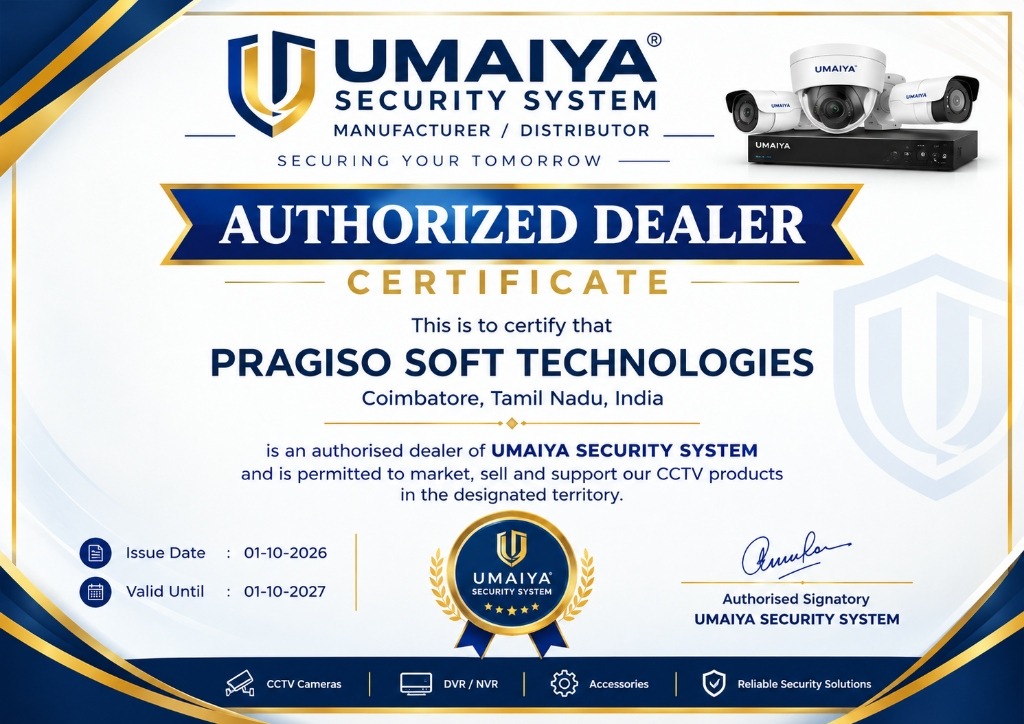
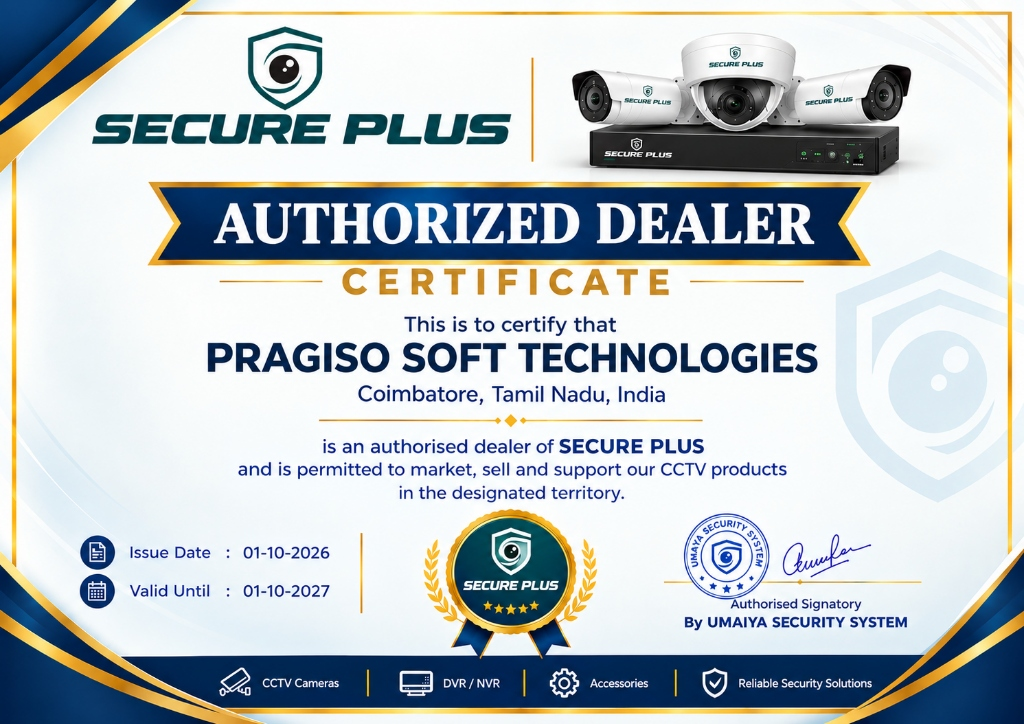
feat(cctv): update official SECURE PLUS authorized dealer certificate with Umaiya signatory

diff --git a/src/components/cctv/CctvAuthorisedDealer.tsx b/src/components/cctv/CctvAuthorisedDealer.tsx
@@ -26,11 +26,11 @@ export function CctvAuthorisedDealer() {
           </h2>
 
           <p className="mt-4 text-base sm:text-lg leading-relaxed text-foreground font-medium">
-            Pragiso Soft Technologies is an authorised dealer of Secure Plus & Umaiya Security System CCTV cameras.
+            Pragiso Soft Technologies is an authorised dealer of Secure Plus CCTV cameras.
           </p>
 
           <p className="mt-2 text-sm text-muted-foreground">
-            As an officially appointed dealer and distributor in Coimbatore, we supply authentic CCTV surveillance hardware directly backed by manufacturer warranties — serving residential homes, commercial enterprises, and local retail sub-dealers across Tamil Nadu.
+            As an officially appointed dealer and distributor in Coimbatore, we supply authentic Secure Plus CCTV surveillance hardware directly backed by manufacturer warranties — serving residential homes, commercial enterprises, and local retail sub-dealers across Tamil Nadu.
           </p>
         </div>
 
@@ -46,7 +46,7 @@ export function CctvAuthorisedDealer() {
                 >
                   <img
                     src={cctvConfig.dealer.dealerAuthLetterUrl}
-                    alt="Official Authorized Dealer Certificate — Pragiso Soft Technologies, Umaiya Security System"
+                    alt="Official Authorized Dealer Certificate — Pragiso Soft Technologies, Secure Plus"
                     width={450}
                     height={320}
                     loading="eager"
@@ -61,14 +61,14 @@ export function CctvAuthorisedDealer() {
 
                 <div className="mt-3 flex items-center gap-1.5 text-[11px] text-muted-foreground">
                   <ShieldCheck className="size-3.5 text-cyan" />
-                  <span>Verified Official Manufacturer Certificate</span>
+                  <span>Verified Secure Plus Dealer Certificate</span>
                 </div>
               </div>
 
               {/* Verified Dealership Assurances & Credentials */}
               <div className="md:col-span-7 space-y-4">
                 <div className="inline-flex items-center gap-1.5 rounded-md bg-secondary/80 px-2.5 py-1 text-xs font-medium text-cyan">
-                  <Building2 className="size-3.5" /> Issued by {cctvConfig.dealer.certifyingAuthority}
+                  <Building2 className="size-3.5" /> Authorized by {cctvConfig.dealer.certifyingAuthority}
                 </div>
 
                 <h3 className="font-display text-xl sm:text-2xl font-bold text-foreground">

diff --git a/src/config/cctv.config.ts b/src/config/cctv.config.ts
@@ -60,14 +60,15 @@ export const cctvConfig = {
 
   // Authorised Dealer Credentials & Official Assets
   dealer: {
-    brandName: "Secure Plus / Umaiya Security System",
-    authorizedStatement: "Pragiso Soft Technologies is an authorised dealer of Secure Plus & Umaiya Security System CCTV cameras.",
-    certifyingAuthority: "Umaiya Security System (Manufacturer / Distributor)",
+    brandName: "Secure Plus",
+    authorizedStatement: "Pragiso Soft Technologies is an authorised dealer of SECURE PLUS CCTV cameras.",
+    certifyingAuthority: "Umaiya Security System",
+    signatory: "Authorised Signatory By UMAIYA SECURITY SYSTEM",
     certificateTitle: "Authorized Dealer Certificate",
     certificateIssueDate: "01-10-2026",
     certificateValidUntil: "01-10-2027",
-    logoUrl: "/secure-plus-logo.jpg", // Official logo provided by client
-    dealerAuthLetterUrl: "/authorized-dealer-certificate.jpg", // Verified official certificate uploaded by client
+    logoUrl: "/secure-plus-logo.jpg", // Official Secure Plus logo
+    dealerAuthLetterUrl: "/authorized-dealer-certificate.jpg", // Verified official SECURE PLUS certificate
     hasAuthLetterImage: true,
   },
 
